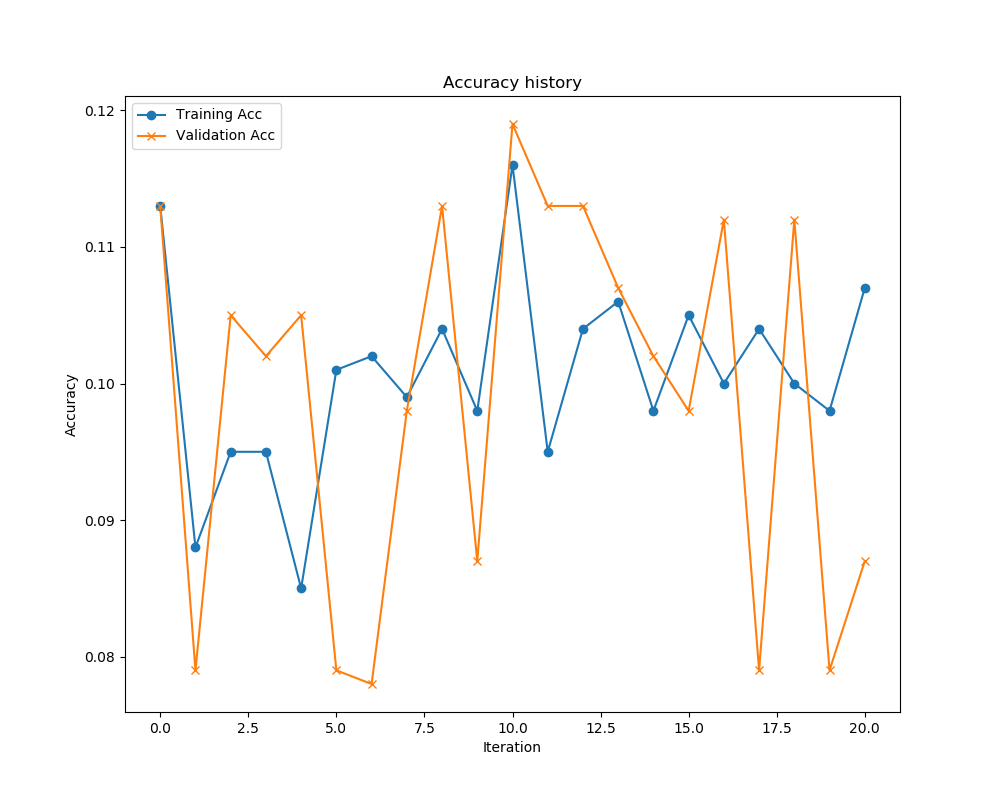
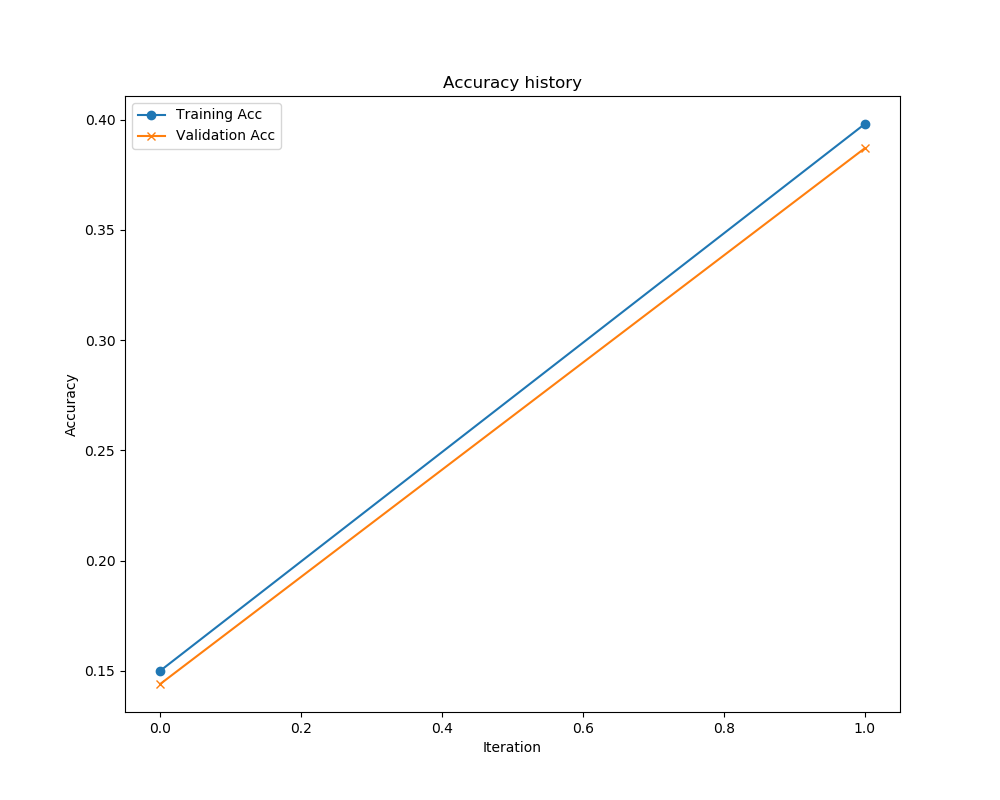
save and load model

diff --git a/assignment2/fully_connected_neural_net.py b/assignment2/fully_connected_neural_net.py
@@ -1,20 +1,22 @@
 import time
 import numpy as np
 import os
-import matplotlib as mpl
-
-if os.environ.get('DISPLAY','') == '':
-    print('no display found. Using non-interactive Agg backend')
-    mpl.use('Agg')
-
-import matplotlib.pyplot as plt
 from neuralnet.fc_net import FullyConnectedNet
 from neuralnet.data_utils import get_CIFAR10_data
 from neuralnet.gradient_check import eval_numerical_gradient
 from neuralnet.gradient_check import eval_numerical_gradient_array
 from neuralnet.solver import Solver
+from neuralnet.save_load import SaveLoad
+import matplotlib as mpl
 
-plt.rcParams['figure.figsize'] = (10.0, 8.0)    # set default size of plots
+if os.environ.get('DISPLAY', '') == '':
+    print('no display found. Using non-interactive Agg backend')
+    mpl.use('Agg')
+
+import matplotlib.pyplot as plt
+
+plt.rcParams['figure.figsize'] = (10.0, 8.0)
+# set default size of plots
 plt.rcParams['image.interpolation'] = 'nearest'
 plt.rcParams['image.cmap'] = 'gray'
 
@@ -22,12 +24,17 @@ plt.rcParams['image.cmap'] = 'gray'
 WORKING_DIR = "/mnt/Alice/ISI/SEM3/NNA/Assignments/assignment2/"
 
 
-def main():
+def train_fc_net():
+    path_to_save_model = WORKING_DIR + "fc.pkl"
+    path_to_save_solver = WORKING_DIR + "solver.pkl"
+
     data = get_CIFAR10_data(dir_path=WORKING_DIR)
-    learning_rate = 10**(np.random.uniform(-4, -1))
-    weight_scale = 10**(np.random.uniform(-6, -1))
+    # learning_rate = 10**(np.random.uniform(-4, -1))
+    # weight_scale = 10**(np.random.uniform(-6, -1))
+    learning_rate = 1e-3
+    weight_scale = 5e-2
     model = FullyConnectedNet(
-        [100, 200, 200, 100],
+        [100, 100, 100, 100, 100],
         weight_scale=weight_scale,
         dtype=np.float64,
         reg=0.1
@@ -38,7 +45,7 @@ def main():
                 print_every=100,
                 num_epochs=40,
                 batch_size=1000,
-                update_rule='sgd',
+                update_rule='adam',
                 optim_config={
                     'learning_rate': learning_rate,
                     }
@@ -59,6 +66,25 @@ def main():
     plt.ylabel('Accuracy')
     plt.savefig(WORKING_DIR+'accuracy.png')
 
+    SaveLoad.save_object(path_to_save_model, model)
+    SaveLoad.save_object(path_to_save_solver, solver)
+
+
+def test_model():
+    path_to_save_model = WORKING_DIR + "fc.pkl"
+    path_to_save_solver = WORKING_DIR + "solver.pkl"
+    _ = SaveLoad.load_object(path_to_save_model)
+    solver = SaveLoad.load_object(path_to_save_solver)
+
+    data = get_CIFAR10_data(dir_path=WORKING_DIR)
+
+    testing_accuracy = solver.check_accuracy(
+        data['X_test'],
+        data['y_test']
+    )
+    print("Testing Accuracy : {}".format(testing_accuracy))
+
 
 if __name__ == "__main__":
-    main()
+    train_fc_net()
+    test_model()

diff --git a/assignment2/neuralnet/save_load.py b/assignment2/neuralnet/save_load.py
@@ -1,0 +1,39 @@
+import _pickle as pickle
+import os
+
+
+class SaveLoad():
+    def __init__(self):
+        pass
+
+    @classmethod
+    def save_object(cls, file_path, python_object):
+        """saves the Python Obejct to the disk at the `file_path`
+
+        Arguments:
+            file_path {str} -- path to a file where
+            we would be storing the Python Obejct
+            python_object {Python Obejct} -- Python Obejct which
+            we want to save
+        """
+        print("Saving Python Obejct to {}".format(file_path))
+        with open(file_path, 'ab') as pklfile:
+            pickle.dump(python_object, pklfile)
+        print("Python Obejct Saved at {}".format(file_path))
+
+    @classmethod
+    def load_object(cls, saved_object_path):
+        """loads the python object trained earlier
+
+        Arguments:
+            saved_object_path {str} -- path to the saved python object
+
+        Returns:
+            Python Object -- returns the python object
+        """
+        assert os.path.exists(saved_object_path), (
+            "Check the provided path for the saved python obejct."
+        )
+        with open(saved_object_path, 'rb') as pklfile:
+            python_object = pickle.load(pklfile)
+        return python_object

diff --git a/assignment2/neuralnet/solver.py b/assignment2/neuralnet/solver.py
@@ -33,7 +33,7 @@ class Solver(object):
       'X_train': # training data
       'y_train': # training labels
       'X_val': # validation data
-      'X_train': # validation labels
+      'y_val': # validation labels
     }
     model = MyAwesomeModel(hidden_size=100, reg=10)
     solver = Solver(model, data,
